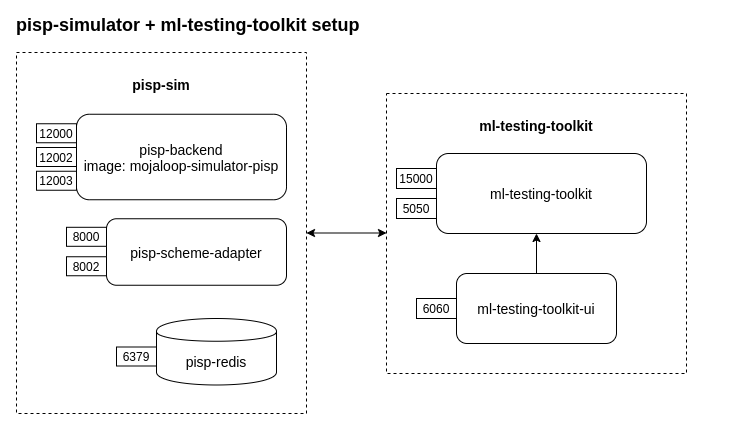
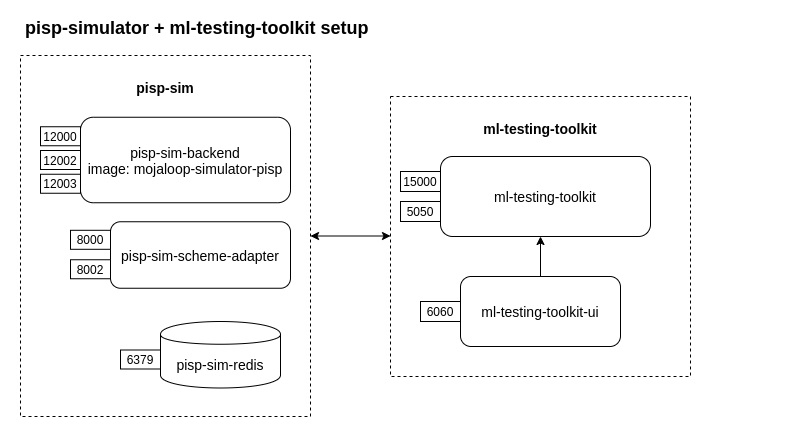
#302 modified docker container names

diff --git a/test/contract/PISPTransfer.test.ts b/test/contract/PISPTransfer.test.ts
@@ -34,11 +34,11 @@ describe('PISP initiated transfer', () => {
       const expected = {
         from: expect.objectContaining({
           ...TestEnv.users.bob,
-          fspId: 'pisp'
+          fspId: 'pisp-sim'
         }),
         to: expect.objectContaining({
           ...TestEnv.users.alice,
-          fspId: 'pisp'
+          fspId: 'pisp-sim'
         }),
         amountType: 'SEND',
         currency: 'USD',
@@ -110,7 +110,7 @@ describe('PISP initiated transfer', () => {
             currency: TestEnv.currency
           }
         }),
-        quoteResponseSource: 'pisp'
+        quoteResponseSource: 'pisp-sim'
       }
 
       // Act

diff --git a/docker-contract/README.md b/docker-contract/README.md
@@ -16,9 +16,9 @@ The aim of this document is to configure API contract tests between the PISP sim
 - [_ml-testing-toolkit_](https://github.com/mojaloop/ml-testing-toolkit) :  Mojaloop Testing Toolkit is a standard integration testing tool between a Digital Financial Service Provider (DFSP) and the Mojaloop Switch (Hub), to facilitate testing. This tool set can potentially be used by both the DFSP and the Mojaloop Switch to verify the integration between the 2 entities.
 - [_ml-testing-toolkit-ui_](https://github.com/mojaloop/ml-testing-toolkit-ui) : This is front end application(Web UI) to access Mojaloop Testing Toolkit.
 - _PISP-SIM_ :  It is customized mojaloop-simulator to represent Payment Initiate System Provider where its dependencies are:
-    - pisp-backend: [mojaloop-simulator](https://github.com/mojaloop/mojaloop-simulator/tree/pisp/master)
-    - pisp-scheme-adapter: [scheme-adapter](https://github.com/mojaloop/sdk-scheme-adapter/tree/pisp/master)
-    - pisp-redis: redisDB
+    - pisp-sim-backend: [mojaloop-simulator](https://github.com/mojaloop/mojaloop-simulator/tree/pisp/master)
+    - pisp-sim-scheme-adapter: [scheme-adapter](https://github.com/mojaloop/sdk-scheme-adapter/tree/pisp/master)
+    - pisp-sim-redis: redisDB
   > configuration folder: [pisp](./pisp-sim)
 
 ![components](./components_layout.png)
@@ -52,7 +52,7 @@ You may want to do this in separate terminal sessions to easily debug each servi
 ```bash
 docker-compose logs -f mojaloop-testing-toolkit
 docker-compose logs -f ml-testing-toolkit-ui
-docker-compose logs -f pisp-backend pisp-scheme-adapter pisp-redis
+docker-compose logs -f pisp-sim-backend pisp-sim-scheme-adapter pisp-sim-redis
 ```
 ## ml-testing-toolkit configuration
 
